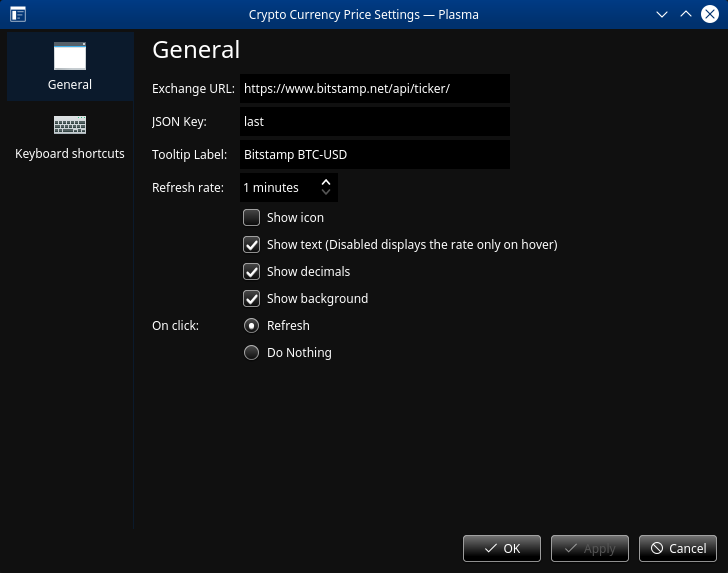
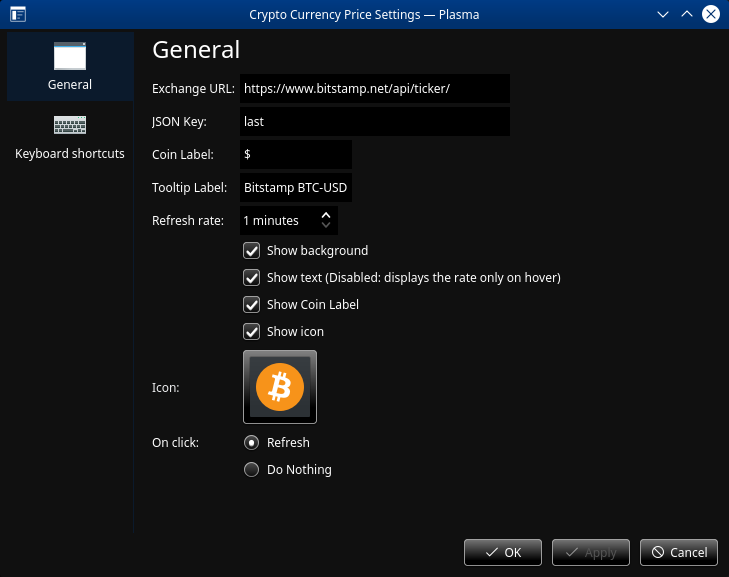
Update to v1.1
- added showing of custom icons
- added coin labeling
- removed buggy show decimals
- reordered config dialog
- changed plasmoid icon to applications-internet
- updated screenshots

diff --git a/package/contents/ui/config/IconPicker.qml b/package/contents/ui/config/IconPicker.qml
@@ -1,0 +1,97 @@
+/*
+ * IconPicker taken from Redshift Control applet by Martin Kotelnik:
+ * https://github.com/kotelnik/plasma-applet-redshift-control
+ * 
+ * Copyright 2015  Martin Kotelnik <clearmartin@seznam.cz>
+ *
+ * This program is free software; you can redistribute it and/or
+ * modify it under the terms of the GNU General Public License as
+ * published by the Free Software Foundation; either version 2 of
+ * the License, or (at your option) any later version.
+ *
+ * This program is distributed in the hope that it will be useful,
+ * but WITHOUT ANY WARRANTY; without even the implied warranty of
+ * MERCHANTABILITY or FITNESS FOR A PARTICULAR PURPOSE.  See the
+ * GNU General Public License for more details.
+ *
+ * You should have received a copy of the GNU General Public License
+ * along with this program.  If not, see <http: //www.gnu.org/licenses/>.
+ */
+import QtQuick 2.2
+import QtQuick.Controls 1.3
+import QtQuick.Layouts 1.1
+import org.kde.kquickcontrolsaddons 2.0 as KQuickAddons
+import org.kde.plasma.core 2.0 as PlasmaCore
+import org.kde.plasma.components 2.0 as PlasmaComponents
+
+// basically taken from kickoff
+Button {
+    id: iconButton
+
+    property string currentIcon
+    property string defaultIcon
+
+    signal iconChanged(string iconName)
+
+    Layout.minimumWidth: previewFrame.width + units.smallSpacing * 2
+    Layout.maximumWidth: Layout.minimumWidth
+    Layout.minimumHeight: previewFrame.height + units.smallSpacing * 2
+    Layout.maximumHeight: Layout.minimumWidth
+
+    KQuickAddons.IconDialog {
+        id: iconDialog
+        onIconNameChanged: {
+            iconPreview.source = iconName
+            iconChanged(iconName)
+        }
+    }
+
+    // just to provide some visual feedback, cannot have checked without checkable enabled
+    checkable: true
+    onClicked: {
+        checked = Qt.binding(function() { // never actually allow it being checked
+            return iconMenu.status === PlasmaComponents.DialogStatus.Open
+        })
+
+        iconMenu.open(0, height)
+    }
+
+    PlasmaCore.FrameSvgItem {
+        id: previewFrame
+        anchors.centerIn: parent
+        imagePath: plasmoid.location === PlasmaCore.Types.Vertical || plasmoid.location === PlasmaCore.Types.Horizontal
+                    ? "widgets/panel-background" : "widgets/background"
+        width: units.iconSizes.large + fixedMargins.left + fixedMargins.right
+        height: units.iconSizes.large + fixedMargins.top + fixedMargins.bottom
+
+        PlasmaCore.IconItem {
+            id: iconPreview
+            anchors.centerIn: parent
+            width: units.iconSizes.large
+            height: width
+            source: currentIcon
+        }
+    }
+
+    function setDefaultIcon() {
+        iconPreview.source = defaultIcon
+        iconChanged(defaultIcon)
+    }
+
+    // QQC Menu can only be opened at cursor position, not a random one
+    PlasmaComponents.ContextMenu {
+        id: iconMenu
+        visualParent: iconButton
+
+        PlasmaComponents.MenuItem {
+            text: i18nc("@item:inmenu Open icon chooser dialog", "Choose...")
+            icon: "document-open-folder"
+            onClicked: iconDialog.open()
+        }
+        PlasmaComponents.MenuItem {
+            text: i18nc("@item:inmenu Reset icon to default", "Clear Icon")
+            icon: "edit-clear"
+            onClicked: setDefaultIcon()
+        }
+    }
+}

diff --git a/package/contents/ui/config/configGeneral.qml b/package/contents/ui/config/configGeneral.qml
@@ -1,8 +1,8 @@
 import QtQuick 2.6
 import QtQuick.Controls 1.4
+import QtQuick.Dialogs 1.2
 import QtQuick.Layouts 1.3
-
-import ".."
+import org.kde.plasma.components 2.0 as PlasmaComponents
 import "../../code/ccscript.js" as CCScript
 
 Item {
@@ -10,13 +10,15 @@ Item {
 	Layout.fillWidth: true
 	property alias cfg_xeUrl: xeUrl.text
 	property alias cfg_xeKey: xeKey.text
+	property alias cfg_coinLabel: coinLabel.text
 	property alias cfg_ttLabel: ttLabel.text
 	property string cfg_onClickAction: plasmoid.configuration.onClickAction
 	property alias cfg_refreshRate: refreshRate.value
 	property alias cfg_showIcon: showIcon.checked
+	property string cfg_icon: plasmoid.configuration.icon
 	property alias cfg_showText: showText.checked
-	property alias cfg_showDecimals: showDecimals.checked
 	property alias cfg_showBackground: showBackground.checked
+	property alias cfg_showCoinLabel: showCoinLabel.checked
 
 	GridLayout {
 		columns: 2
@@ -40,12 +42,21 @@ Item {
 		}
 		
 		Label {
+			text: i18n("Coin Label:")
+		}
+
+		TextField {
+			id: coinLabel
+			Layout.minimumWidth: theme.mSize(theme.defaultFont).width * 10
+		}
+		
+		Label {
 			text: i18n("Tooltip Label:")
 		}
 
 		TextField {
 			id: ttLabel
-			Layout.minimumWidth: theme.mSize(theme.defaultFont).width * 30
+			Layout.minimumWidth: theme.mSize(theme.defaultFont).width * 10
 		}
 		
 		Label {
@@ -56,6 +67,45 @@ Item {
 			id: refreshRate
 			suffix: i18n(" minutes")
 			minimumValue: 1
+		}
+		
+		Label {
+			text: ""
+		}
+		
+		CheckBox {
+			id: showBackground
+			text: i18n("Show background")
+		}
+		
+		Label {
+			text: ""
+		}
+		
+		CheckBox {
+			id: showText
+			text: i18n("Show text (Disabled: displays the rate only on hover)")
+			onClicked: {
+				if(!this.checked) {
+					showIcon.checked = true
+					showIcon.enabled = false
+					showCoinLabel.checked = false
+					showCoinLabel.enabled = false
+				} else {
+					showIcon.enabled = true
+					showCoinLabel.enabled = true
+					showCoinLabel.checked = true
+				}
+			}
+		}
+		
+		Label {
+			text: ""
+		}
+		
+		CheckBox {
+			id: showCoinLabel
+			text: i18n("Show Coin Label")
 		}
 		
 		Label {
@@ -75,41 +125,17 @@ Item {
 			}
 		}
 		
-		Label {
-			text: ""
+		PlasmaComponents.Label {
+			text: i18n("Icon:")
 		}
 		
-		CheckBox {
-			id: showText
-			text: i18n("Show text (Disabled displays the rate only on hover)")
-			onClicked: {
-				if(!this.checked) {
-					showIcon.checked = true
-					showIcon.enabled = false
-				} else {
-					showIcon.enabled = true
-				}
-			}
+		IconPicker {
+			currentIcon: cfg_icon
+			defaultIcon: ""
+			onIconChanged: cfg_icon = iconName
+			enabled: true
 		}
-		
-		Label {
-			text: ""
-		}
-		
-		CheckBox {
-			id: showDecimals
-			text: i18n("Show decimals")
-		}
-		
-		Label {
-			text: ""
-		}
-		
-		CheckBox {
-			id: showBackground
-			text: i18n("Show background")
-		}
-		
+
 		Label {
 			text: i18n("On click:")
 		}
@@ -117,7 +143,7 @@ Item {
 		ExclusiveGroup { id: clickGroup }
 		
 		RadioButton {
-			Layout.row: 8
+			Layout.row: 10
 			Layout.column: 1
 			exclusiveGroup: clickGroup
 			checked: cfg_onClickAction == 'refresh'
@@ -128,7 +154,7 @@ Item {
 		}
 
 		RadioButton {
-			Layout.row: 9
+			Layout.row: 11
 			Layout.column: 1
 			exclusiveGroup: clickGroup
 			checked: cfg_onClickAction == 'nothing'

diff --git a/package/contents/ui/main.qml b/package/contents/ui/main.qml
@@ -12,9 +12,11 @@ Item {
 	Layout.fillHeight: true
 	
 	property string cryptoRate: '...'
+	property bool showCoinLabel: plasmoid.configuration.showCoinLabel
 	property bool showIcon: plasmoid.configuration.showIcon
 	property bool showText: plasmoid.configuration.showText
 	property bool updatingRate: false
+	property bool useCustomIcon: plasmoid.configuration.showIcon && plasmoid.configuration.icon != ''
 	
 	Plasmoid.preferredRepresentation: Plasmoid.compactRepresentation
 	Plasmoid.toolTipTextFormat: Text.RichText
@@ -73,6 +75,20 @@ Item {
 			
 			source: "../images/blank.svg"
 			visible: root.showIcon
+			opacity: root.useCustomIcon ? 0.0 : root.updatingRate ? 0.2 : mouseArea.containsMouse ? 0.8 : 1.0
+		}
+		
+		PlasmaCore.IconItem {
+			id: cryptoIcon2
+			width: parent.height * 0.9
+			height: parent.height * 0.9
+			anchors.top: parent.top
+			anchors.left: parent.left
+			anchors.topMargin: parent.height * 0.05
+			anchors.leftMargin: root.showText ? parent.height * 0.05 : 0
+			
+			source: plasmoid.configuration.icon
+			visible: root.showIcon
 			opacity: root.updatingRate ? 0.2 : mouseArea.containsMouse ? 0.8 : 1.0
 		}
 		
@@ -92,7 +108,7 @@ Item {
 			fontSizeMode: Text.Fit
 			minimumPixelSize: cryptoIcon.width * 0.7
 			font.pixelSize: 72			
-			text: root.cryptoRate
+			text: root.showCoinLabel ? (plasmoid.configuration.coinLabel + root.cryptoRate) : root.cryptoRate
 		}
 	}
 	
@@ -113,9 +129,6 @@ Item {
 		onRefreshRateChanged: {
 			cryptoTimer.restart();
 		}
-		onShowDecimalsChanged: {
-			cryptoTimer.restart();
-		}
 	}
 	
 	Timer {
@@ -128,17 +141,14 @@ Item {
 			root.updatingRate = true;
 			
 			var result = CCScript.getRate(plasmoid.configuration.xeUrl, plasmoid.configuration.xeKey, function(rate) {
-				if(!plasmoid.configuration.showDecimals) rate = Math.floor(rate);
 				
 				var rateText = Number(rate);
-				
-				if(!plasmoid.configuration.showDecimals) rateText = rateText.replace(Qt.locale().decimalPoint + '00', '');
 				
 				root.cryptoRate = rateText;
 				
 				var toolTipSubText = '<b>' + i18n(plasmoid.configuration.ttLabel) + '</b>';
 				toolTipSubText += '<br />';
-				toolTipSubText += '<b>' + root.cryptoRate + '</b>';
+				root.showCoinLabel? toolTipSubText += '<b>' + plasmoid.configuration.coinLabel + root.cryptoRate + '</b>' : toolTipSubText += '<b>' + root.cryptoRate + '</b>'
 				
 				plasmoid.toolTipSubText = toolTipSubText;
 				

diff --git a/README.md b/README.md
@@ -1,11 +1,11 @@
 # Crypto Currency Price Plasmoid
 
 ## About
-This is a Plasma applet that shows the current price of any cryptocurrency from user definable exchanges and JSON keys.
+This is a Plasma applet that shows the current price of any cryptocurrency from user definable exchange sources and JSON keys.
 
-Credits to Maciej Gierej, author of the bitcoin price applet that this applet is derived from:
+Credits to Maciej Gierej, author of several bitcoin applets that this applet is derived from:
 
-https://github.com/MakG10/plasma-applet-bitcoin-price
+https://github.com/MakG10/
 
 ## Installation
 ```
@@ -15,9 +15,13 @@ plasmapkg2 -i package
 Use additional `-g` flag to install plasmoid globally, for all users.
 
 ## Usage
-Enter the Exchange URL and JSON Key in settings. The tooltip label is shown on hover.
+Enter the Exchange URL and JSON Key in settings. 
 
-The 'show icon' function is still a WIP but you can manually replace the blank.svg image with one of your own for now.
+JSON keys are case sensitive. 
+
+The tooltip label is shown on hover.
+
+For custom icons, i recommend downloading the respective coin images from coinranking.com.
 
 ### Example 1 - BTC-USD last price on Bitstamp
 Exchange URL: https://www.bitstamp.net/api/ticker/
@@ -45,14 +49,21 @@ JSON Key: result.Last
 
 ## Changelog
 
+### 1.1
+- added showing of custom icons
+- added coin labeling
+- removed buggy show decimals
+- reordered config dialog
+- changed plasmoid icon to applications-internet
+- updated screenshots
+
 ### 1.0
 Initial release
 
 ## To Do
-- show a label instead of icon for the currency type of the rate (e.g. USD, BTC)
-- 'Show custom icon' option in settings
-- show additional fields for ask, bid, last in the hover tooltip
+- show additional fields for ask, bid in the hover tooltip
 - Allow controlling # of decimal places
+- click on plasmoid icon opens icon chooser dialog
 
 ## Donate
 You can buy me a beer if you liked this widget:
